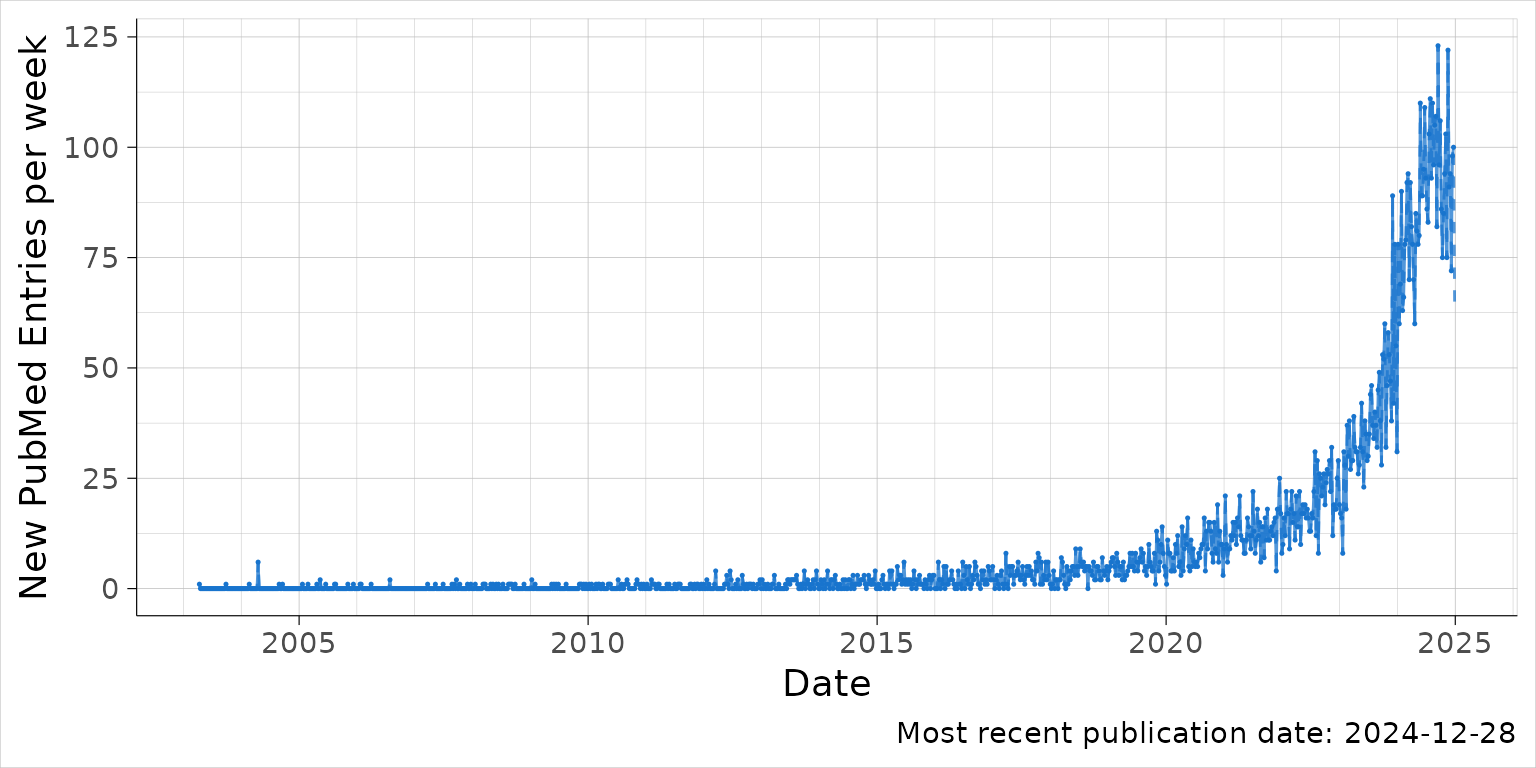
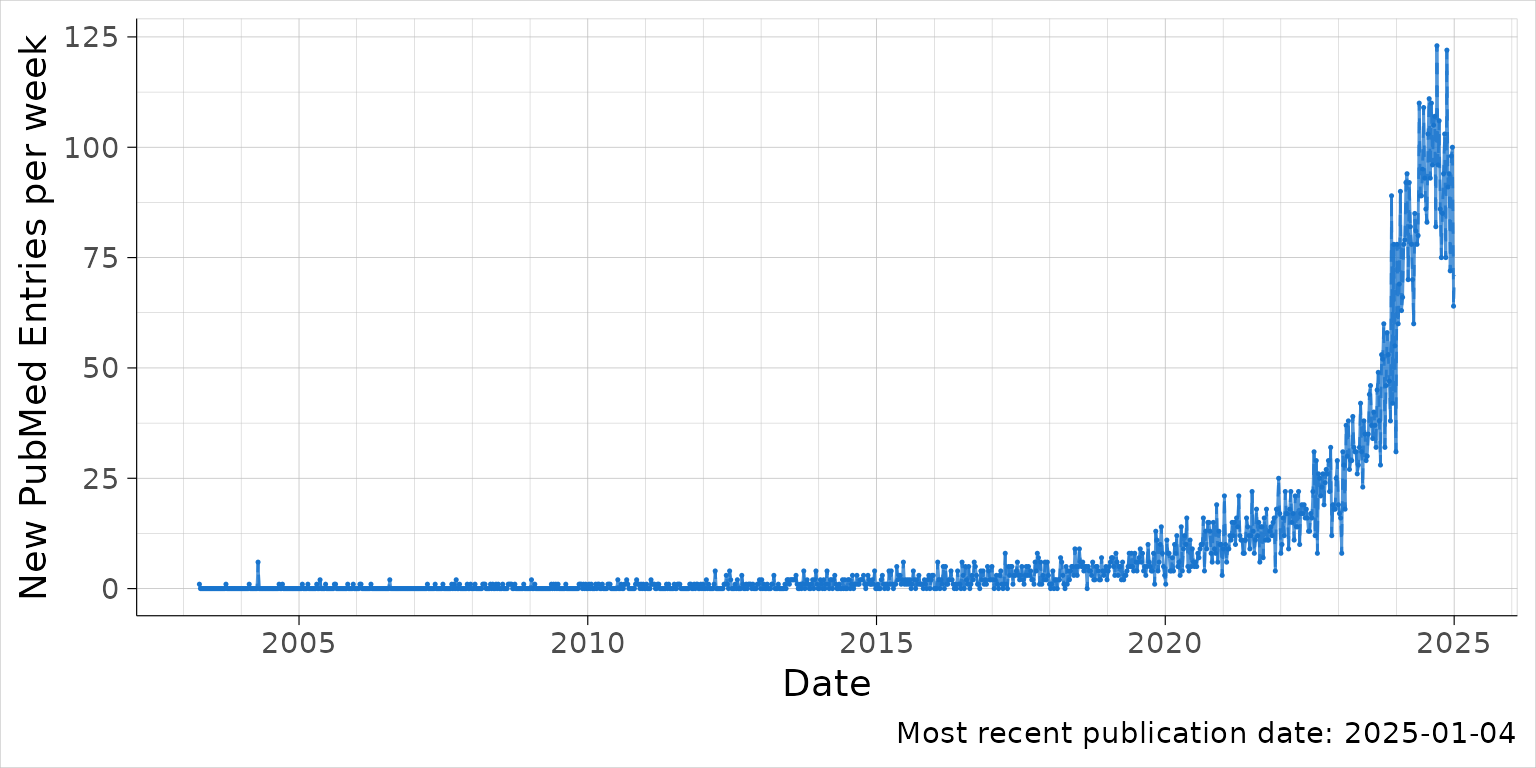
Deploying to gh-pages from @ explodecomputer/PubmedPlot@5c884509d09917a0f50d4cd3f69328abb15d8c69 🚀

diff --git a/articles/abstracts.html b/articles/abstracts.html
@@ -84,7 +84,7 @@
 <span></span>
 <span><span class="va">search_response</span> <span class="op">&lt;-</span> <span class="fu">httr</span><span class="fu">::</span><span class="fu"><a href="https://httr.r-lib.org/reference/GET.html" class="external-link">GET</a></span><span class="op">(</span>url <span class="op">=</span> <span class="va">search_url</span>, query <span class="op">=</span> <span class="va">search_params</span><span class="op">)</span></span>
 <span><span class="va">search_content</span> <span class="op">&lt;-</span> <span class="fu">httr</span><span class="fu">::</span><span class="fu"><a href="https://httr.r-lib.org/reference/content.html" class="external-link">content</a></span><span class="op">(</span><span class="va">search_response</span>, <span class="st">"text"</span><span class="op">)</span></span>
-<span><span class="va">search_result</span> <span class="op">&lt;-</span> <span class="fu">jsonlite</span><span class="fu">::</span><span class="fu"><a href="https://rdrr.io/pkg/jsonlite/man/fromJSON.html" class="external-link">fromJSON</a></span><span class="op">(</span><span class="va">search_content</span><span class="op">)</span></span>
+<span><span class="va">search_result</span> <span class="op">&lt;-</span> <span class="fu">jsonlite</span><span class="fu">::</span><span class="fu"><a href="https://jeroen.r-universe.dev/jsonlite/reference/fromJSON.html" class="external-link">fromJSON</a></span><span class="op">(</span><span class="va">search_content</span><span class="op">)</span></span>
 <span></span>
 <span><span class="va">pmids</span> <span class="op">&lt;-</span> <span class="va">search_result</span><span class="op">$</span><span class="va">esearchresult</span><span class="op">$</span><span class="va">idlist</span></span>
 <span><span class="co"># length(pmids)</span></span>
@@ -128,7 +128,7 @@
 <span>    <span class="op">)</span></span>
 <span><span class="op">}</span><span class="op">)</span> <span class="op"><a href="../reference/pipe.html">%&gt;%</a></span> <span class="fu"><a href="https://dplyr.tidyverse.org/reference/bind_rows.html" class="external-link">bind_rows</a></span><span class="op">(</span><span class="op">)</span></span>
 <span></span>
-<span><span class="fu">jsonlite</span><span class="fu">::</span><span class="fu"><a href="https://rdrr.io/pkg/jsonlite/man/read_json.html" class="external-link">write_json</a></span><span class="op">(</span><span class="va">pub_dates</span>, path<span class="op">=</span><span class="st">"pubmed.json"</span>, pretty <span class="op">=</span> <span class="cn">TRUE</span><span class="op">)</span></span></code></pre></div>
+<span><span class="fu">jsonlite</span><span class="fu">::</span><span class="fu"><a href="https://jeroen.r-universe.dev/jsonlite/reference/read_json.html" class="external-link">write_json</a></span><span class="op">(</span><span class="va">pub_dates</span>, path<span class="op">=</span><span class="st">"pubmed.json"</span>, pretty <span class="op">=</span> <span class="cn">TRUE</span><span class="op">)</span></span></code></pre></div>
 <div class="section level2">
 <h2 id="extract-tiab">Extract tiab<a class="anchor" aria-label="anchor" href="#extract-tiab"></a>
 </h2>
@@ -146,7 +146,7 @@
 <span></span>
 <span><span class="va">search_response</span> <span class="op">&lt;-</span> <span class="fu">httr</span><span class="fu">::</span><span class="fu"><a href="https://httr.r-lib.org/reference/GET.html" class="external-link">GET</a></span><span class="op">(</span>url <span class="op">=</span> <span class="va">search_url</span>, query <span class="op">=</span> <span class="va">search_params</span><span class="op">)</span></span>
 <span><span class="va">search_content</span> <span class="op">&lt;-</span> <span class="fu">httr</span><span class="fu">::</span><span class="fu"><a href="https://httr.r-lib.org/reference/content.html" class="external-link">content</a></span><span class="op">(</span><span class="va">search_response</span>, <span class="st">"text"</span><span class="op">)</span></span>
-<span><span class="va">search_result</span> <span class="op">&lt;-</span> <span class="fu">jsonlite</span><span class="fu">::</span><span class="fu"><a href="https://rdrr.io/pkg/jsonlite/man/fromJSON.html" class="external-link">fromJSON</a></span><span class="op">(</span><span class="va">search_content</span><span class="op">)</span></span>
+<span><span class="va">search_result</span> <span class="op">&lt;-</span> <span class="fu">jsonlite</span><span class="fu">::</span><span class="fu"><a href="https://jeroen.r-universe.dev/jsonlite/reference/fromJSON.html" class="external-link">fromJSON</a></span><span class="op">(</span><span class="va">search_content</span><span class="op">)</span></span>
 <span></span>
 <span><span class="va">pmids2</span> <span class="op">&lt;-</span> <span class="va">search_result</span><span class="op">$</span><span class="va">esearchresult</span><span class="op">$</span><span class="va">idlist</span></span>
 <span></span>
@@ -164,7 +164,7 @@
 <span></span>
 <span><span class="va">search_response</span> <span class="op">&lt;-</span> <span class="fu">httr</span><span class="fu">::</span><span class="fu"><a href="https://httr.r-lib.org/reference/GET.html" class="external-link">GET</a></span><span class="op">(</span>url <span class="op">=</span> <span class="va">search_url</span>, query <span class="op">=</span> <span class="va">search_params</span><span class="op">)</span></span>
 <span><span class="va">search_content</span> <span class="op">&lt;-</span> <span class="fu">httr</span><span class="fu">::</span><span class="fu"><a href="https://httr.r-lib.org/reference/content.html" class="external-link">content</a></span><span class="op">(</span><span class="va">search_response</span>, <span class="st">"text"</span><span class="op">)</span></span>
-<span><span class="va">search_result</span> <span class="op">&lt;-</span> <span class="fu">jsonlite</span><span class="fu">::</span><span class="fu"><a href="https://rdrr.io/pkg/jsonlite/man/fromJSON.html" class="external-link">fromJSON</a></span><span class="op">(</span><span class="va">search_content</span><span class="op">)</span></span>
+<span><span class="va">search_result</span> <span class="op">&lt;-</span> <span class="fu">jsonlite</span><span class="fu">::</span><span class="fu"><a href="https://jeroen.r-universe.dev/jsonlite/reference/fromJSON.html" class="external-link">fromJSON</a></span><span class="op">(</span><span class="va">search_content</span><span class="op">)</span></span>
 <span></span>
 <span><span class="va">pmids3</span> <span class="op">&lt;-</span> <span class="va">search_result</span><span class="op">$</span><span class="va">esearchresult</span><span class="op">$</span><span class="va">idlist</span></span>
 <span><span class="fu"><a href="https://rdrr.io/r/base/length.html" class="external-link">length</a></span><span class="op">(</span><span class="va">pmids3</span><span class="op">)</span></span>
@@ -213,7 +213,7 @@
 <span>    <span class="op">)</span></span>
 <span><span class="op">}</span><span class="op">)</span> <span class="op"><a href="../reference/pipe.html">%&gt;%</a></span> <span class="fu"><a href="https://dplyr.tidyverse.org/reference/bind_rows.html" class="external-link">bind_rows</a></span><span class="op">(</span><span class="op">)</span></span>
 <span></span>
-<span><span class="fu">jsonlite</span><span class="fu">::</span><span class="fu"><a href="https://rdrr.io/pkg/jsonlite/man/read_json.html" class="external-link">write_json</a></span><span class="op">(</span><span class="va">pub_dates</span>, path<span class="op">=</span><span class="st">"pubmed_new.json"</span>, pretty <span class="op">=</span> <span class="cn">TRUE</span><span class="op">)</span></span></code></pre></div>
+<span><span class="fu">jsonlite</span><span class="fu">::</span><span class="fu"><a href="https://jeroen.r-universe.dev/jsonlite/reference/read_json.html" class="external-link">write_json</a></span><span class="op">(</span><span class="va">pub_dates</span>, path<span class="op">=</span><span class="st">"pubmed_new.json"</span>, pretty <span class="op">=</span> <span class="cn">TRUE</span><span class="op">)</span></span></code></pre></div>
 </div>
   </main>
 </div>

diff --git a/authors.html b/authors.html
@@ -47,14 +47,14 @@
       <h2 id="citation">Citation</h2>
       <p></p>
 
-      <p>Hemani G (2024).
+      <p>Hemani G (2025).
 <em>PubmedPlot: Plot time trends in Pubmed search results</em>.
 R package version 0.0.0.9000, <a href="https://explodecomputer.github.io/PubmedPlot/">https://explodecomputer.github.io/PubmedPlot/</a>.
 </p>
       <pre>@Manual{,
   title = {PubmedPlot: Plot time trends in Pubmed search results},
   author = {Gibran Hemani},
-  year = {2024},
+  year = {2025},
   note = {R package version 0.0.0.9000},
   url = {https://explodecomputer.github.io/PubmedPlot/},
 }</pre>
